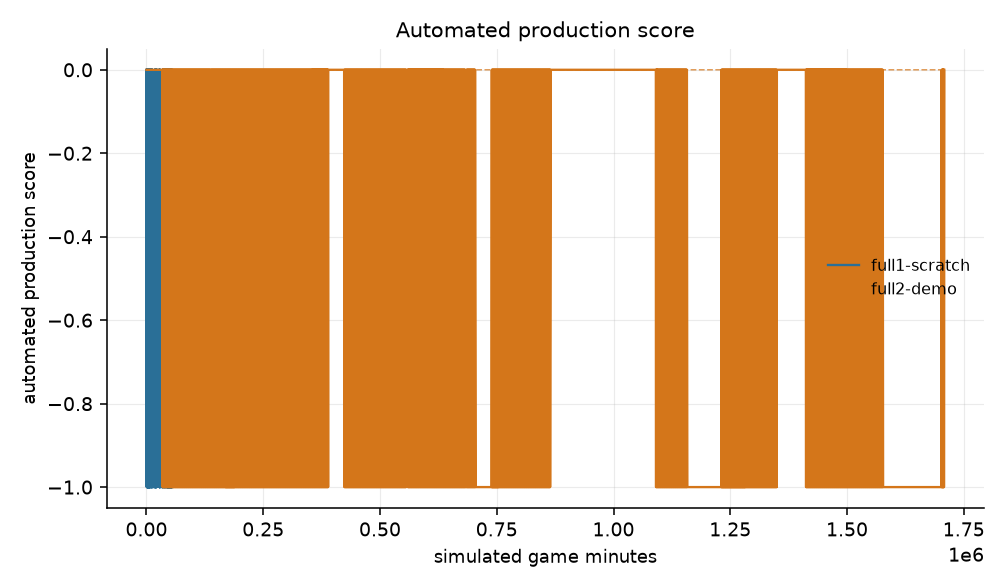
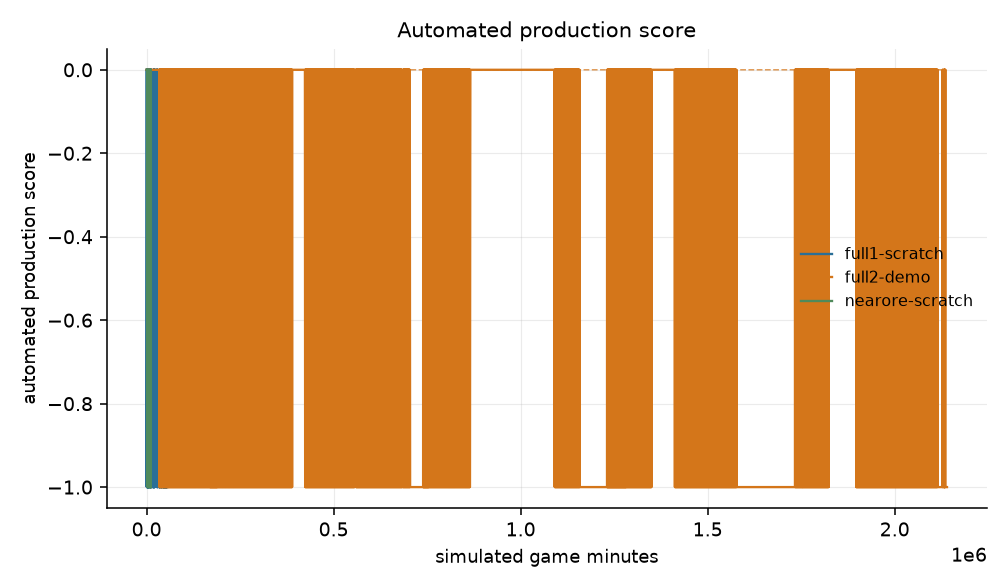
FULL-2 final numbers; plots include the near-ore arm

diff --git a/SM_ARQ_M3_OVERNIGHT_RESULTS.md b/SM_ARQ_M3_OVERNIGHT_RESULTS.md
@@ -216,7 +216,7 @@ over 5000 decisions, three workers each on their own Factorio server.
 | run | reward | seeding | ports | status |
 |---|---|---|---|---|
 | FULL-1 `full1-scratch` | automated | scratch | 27000-27002 | running |
-| FULL-2 `full2-demo` | automated | 6 live burner demonstrations at PER priority 10 | 27003-27005 | ran 1 h 50 m |
+| FULL-2 `full2-demo` | automated | 6 live burner demonstrations at PER priority 10 | 27003-27005 | ran 2 h 00 m |
 | FULL-3 | production (ablation) | scratch | - | not run: the six servers were committed to FULL-1/2, which the brief prioritises, and then to the near-ore arm below |
 | NEAR-ORE (extra, not in the brief) | automated | scratch, episodes start beside ore | 27000-27002 | started 07:33 on the servers FULL-1 freed |
 
@@ -226,7 +226,7 @@ measured, never projected.
 | run | decisions | episodes | simulated | final automated (max / mean) | final production (max / mean) | automated per game min | decisions / wall s | updates | wall |
 |---|---:|---:|---:|---:|---:|---:|---:|---:|---:|
 | FULL-1 scratch | 7,266 | 19 | 528.4 game min | **0 / −0.68** | 923 / 229 | −0.024 | 1.03 | 7,266 | 1 h 58 m |
-| FULL-2 demo-seeded | 5,043 (6,045 logged) | 16 | 480.0 game min | **0 / −0.75** | 661 / 183 | −0.025 | 0.98 | ~5,900 | 1 h 50 m (running) |
+| FULL-2 demo-seeded | 7,606 | 24 | 681.3 game min | **0 / −0.83** | 661 / 148 | −0.025 | 0.98 | 7,606 | 2 h 00 m |
 
 Aggregate simulation throughput was 4.5 game-seconds per wall-second across three
 workers; episodes ended on the simulated-time budget in every case except the three that
@@ -366,7 +366,7 @@ random policy). Placement geometry is never abstracted anywhere in the code.
 
 *Unresolved.* Neither live run produced a single point of automated production. FULL-1
 ran 7,266 decisions over 528 simulated game minutes with epsilon annealed to 0.09;
-FULL-2 ran 5,043 decisions over 480 game minutes with six demonstrations seeded at
+FULL-2 ran 7,606 decisions over 681 game minutes with six demonstrations seeded at
 priority 10. Both ended every episode on the simulated-time budget with an automated
 score of 0, while the general production score climbed to 923 and 661 respectively. The
 demonstrations did move the value function — FULL-2's mean max Q reached 29 against
